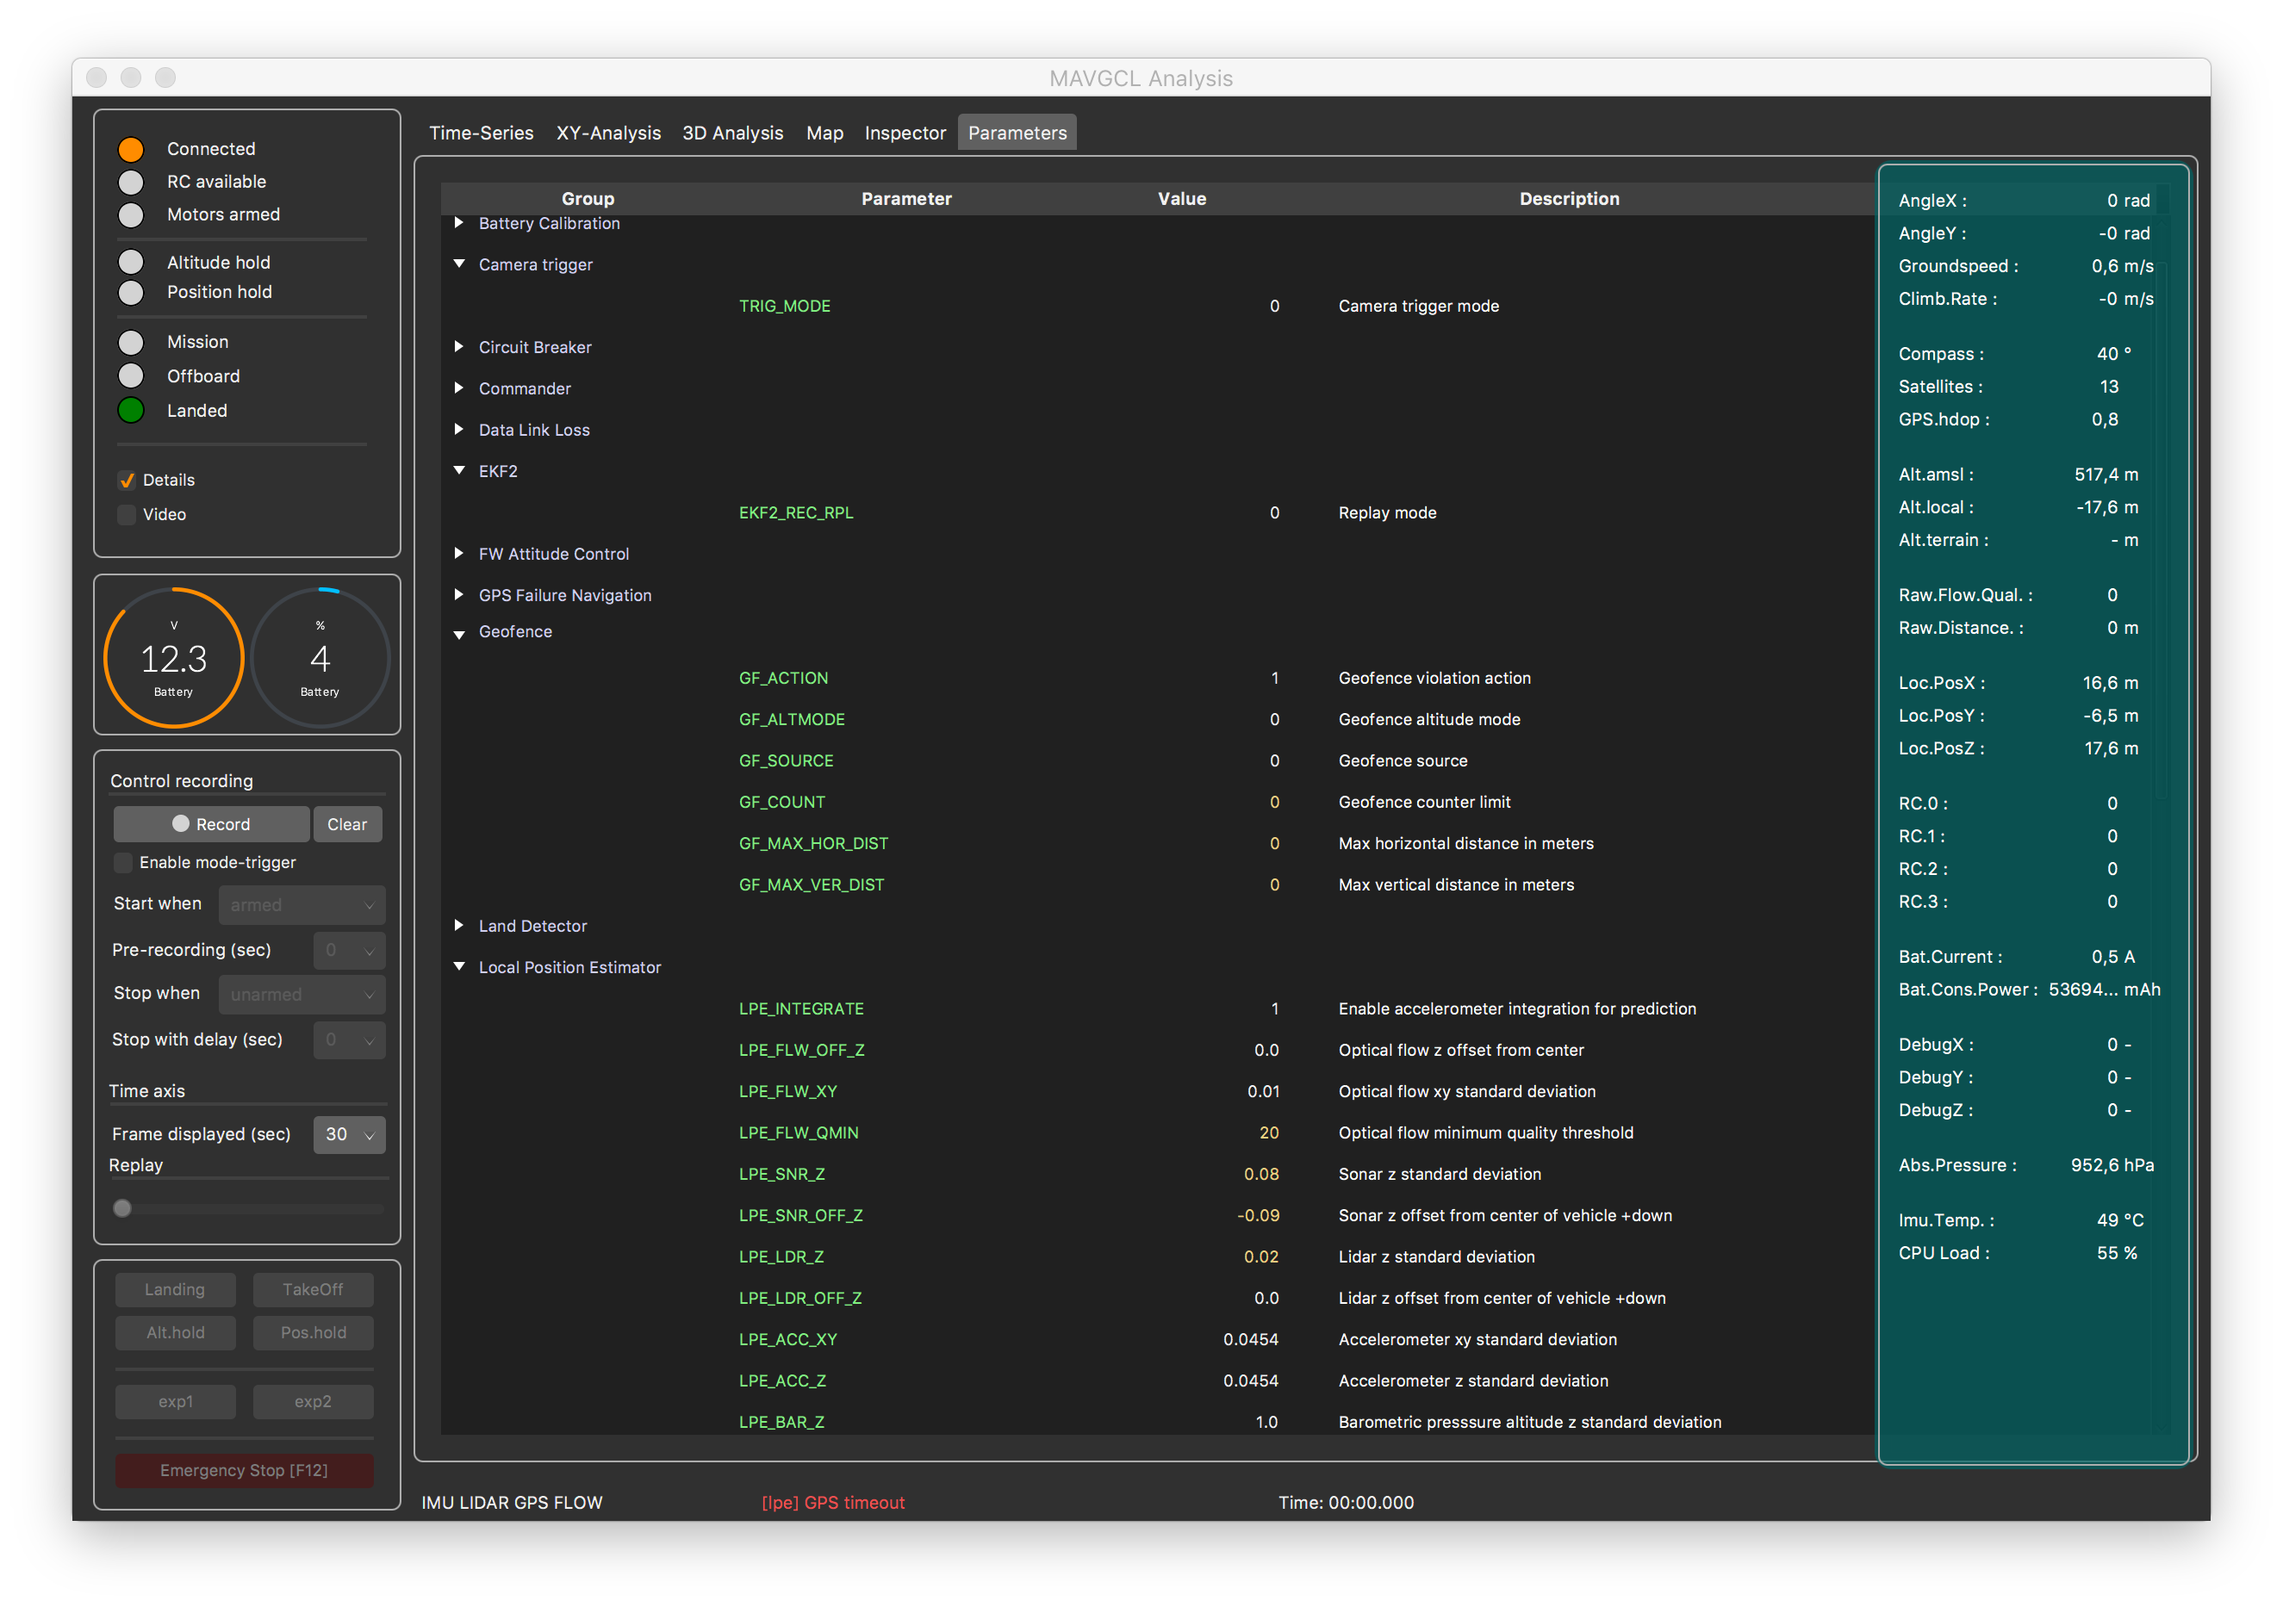
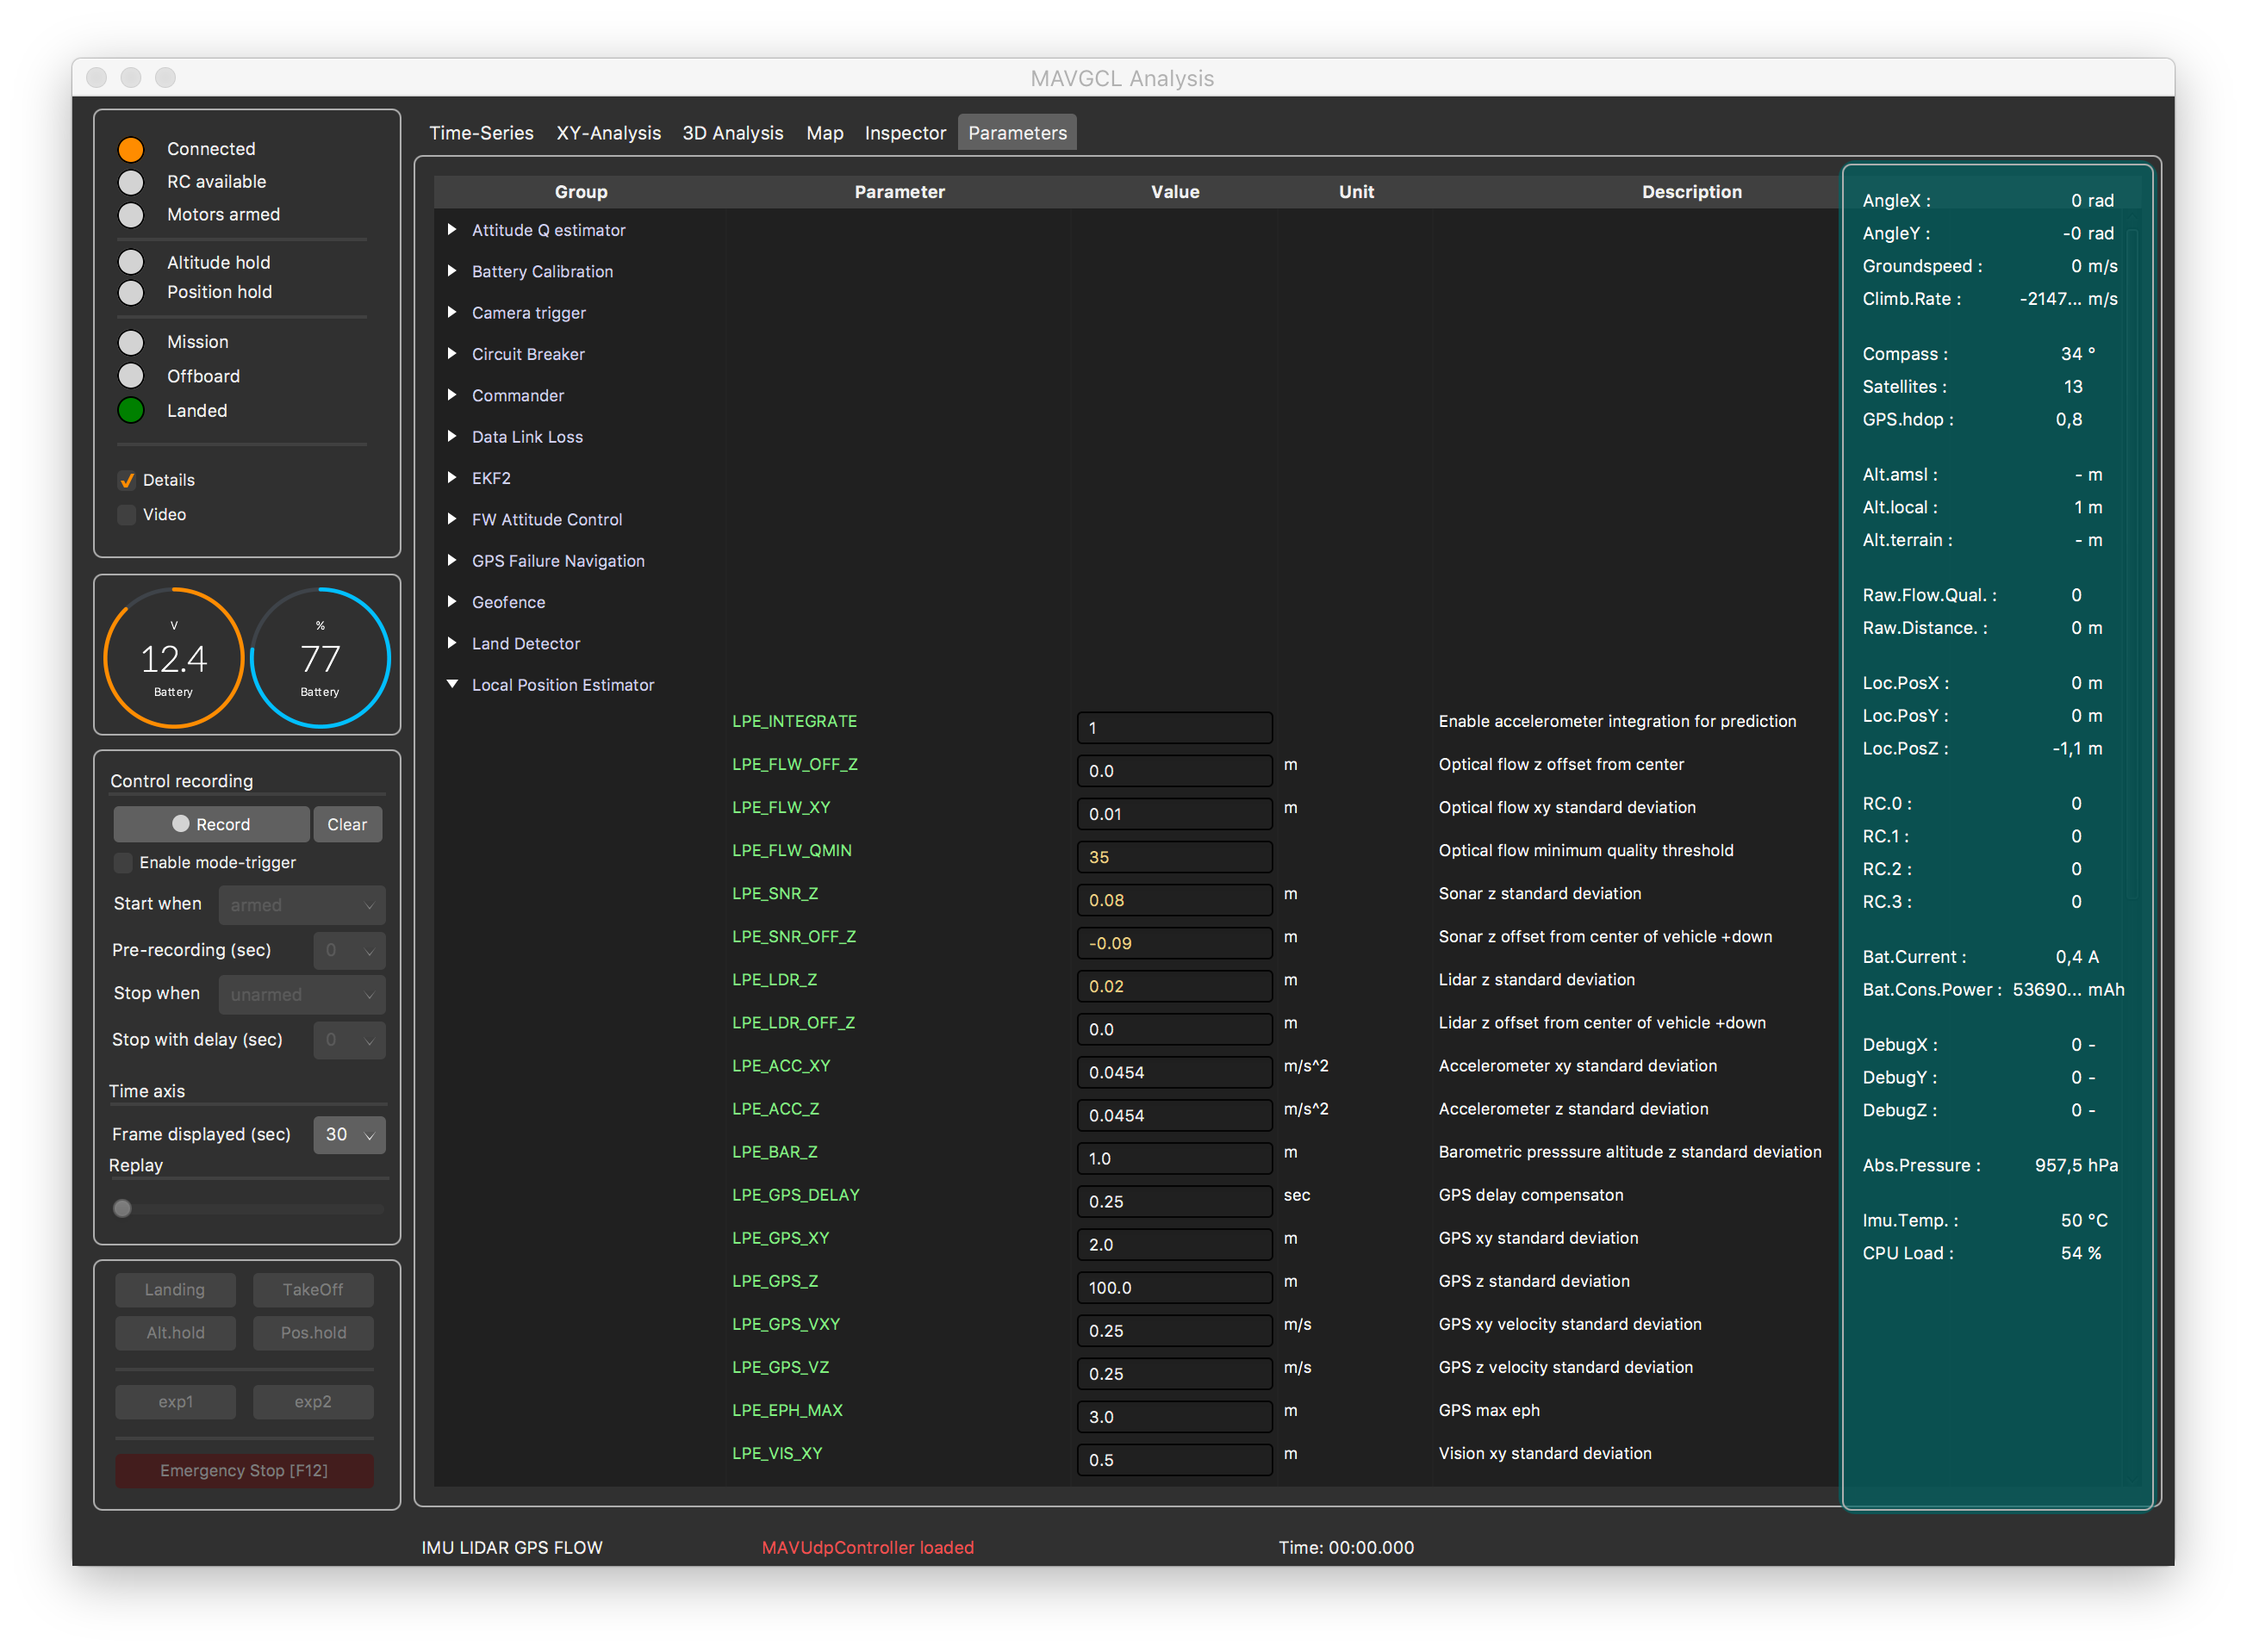
Readme update, Parameter handling enhanced

diff --git a/MAVGCL/src/com/comino/flight/tabs/parameters/MAVParametersTab.java b/MAVGCL/src/com/comino/flight/tabs/parameters/MAVParametersTab.java
@@ -101,6 +101,8 @@ public class MAVParametersTab extends BorderPane implements IMAVLinkListener {
 
 	private ParameterFactMetaData metadata = null;
 
+	private MSPLogger log = MSPLogger.getInstance();
+
 
 	public MAVParametersTab() {
 		FXMLLoader fxmlLoader = new FXMLLoader(getClass().getResource("MAVParametersTab.fxml"));
@@ -389,6 +391,10 @@ public class MAVParametersTab extends BorderPane implements IMAVLinkListener {
 						try {
 							float val =  Float.parseFloat(textField.getText());
 							if(val!=value) {
+
+								if((val >= att.min_val && val <= att.max_val) ||
+										att.min_val == att.max_val ) {
+
 								value= val;
 
 								msg_param_set msg = new msg_param_set(255,1);
@@ -398,12 +404,17 @@ public class MAVParametersTab extends BorderPane implements IMAVLinkListener {
 								msg.param_value = value;
 
 								control.sendMAVLinkMessage(msg);
-
-								MSPLogger.getInstance().writeLocalMsg(att.name+" set to  "+value+" on device");
+								log.writeLocalMsg(att.name+" set to  "+value+" on device");
 
 								checkDefault();
+								}
+								else {
+									log.writeLocalMsg(att.name+" is out of bounds ("+att.min_val+","+att.max_val+")");
+									textField.setText(getStringOfValue());
+								}
 							}
 						} catch(NumberFormatException e) {
+							textField.setText(getStringOfValue());
 						}
 						treetableview.getSelectionModel().clearSelection();
 					}

diff --git a/MAVGCL/src/com/comino/flight/tabs/parameters/ParameterFactMetaData.java b/MAVGCL/src/com/comino/flight/tabs/parameters/ParameterFactMetaData.java
@@ -97,10 +97,10 @@ public class ParameterFactMetaData {
 				attributes.unit = node.getTextContent();
 			if(node.getNodeName().equals("decimal"))
 				attributes.decimals = Integer.parseInt(node.getTextContent());
-			if(node.getNodeName().equals("min_val"))
+			if(node.getNodeName().equals("min"))
 				attributes.min_val = Float.parseFloat(node.getTextContent());
-			if(node.getNodeName().equals("max_val"))
-				attributes.min_val = Float.parseFloat(node.getTextContent());
+			if(node.getNodeName().equals("max"))
+				attributes.max_val = Float.parseFloat(node.getTextContent());
 		}
 
 		parameterList.put(attributes.name, attributes);

diff --git a/README.md b/README.md
@@ -6,7 +6,9 @@ This JavaFx based tool enables PX4 Users to record and analyse data published vi
 
 Any comments and contributions are welcome.
 
-**Status:** Last updated 17/04/2016 
+**Status:** Last updated 18/04/2016 
+
+- Editable parameters, changes are sent to vehicle
 
 Stable: V0.2 https://github.com/ecmnet/MAVGCL/releases
 
